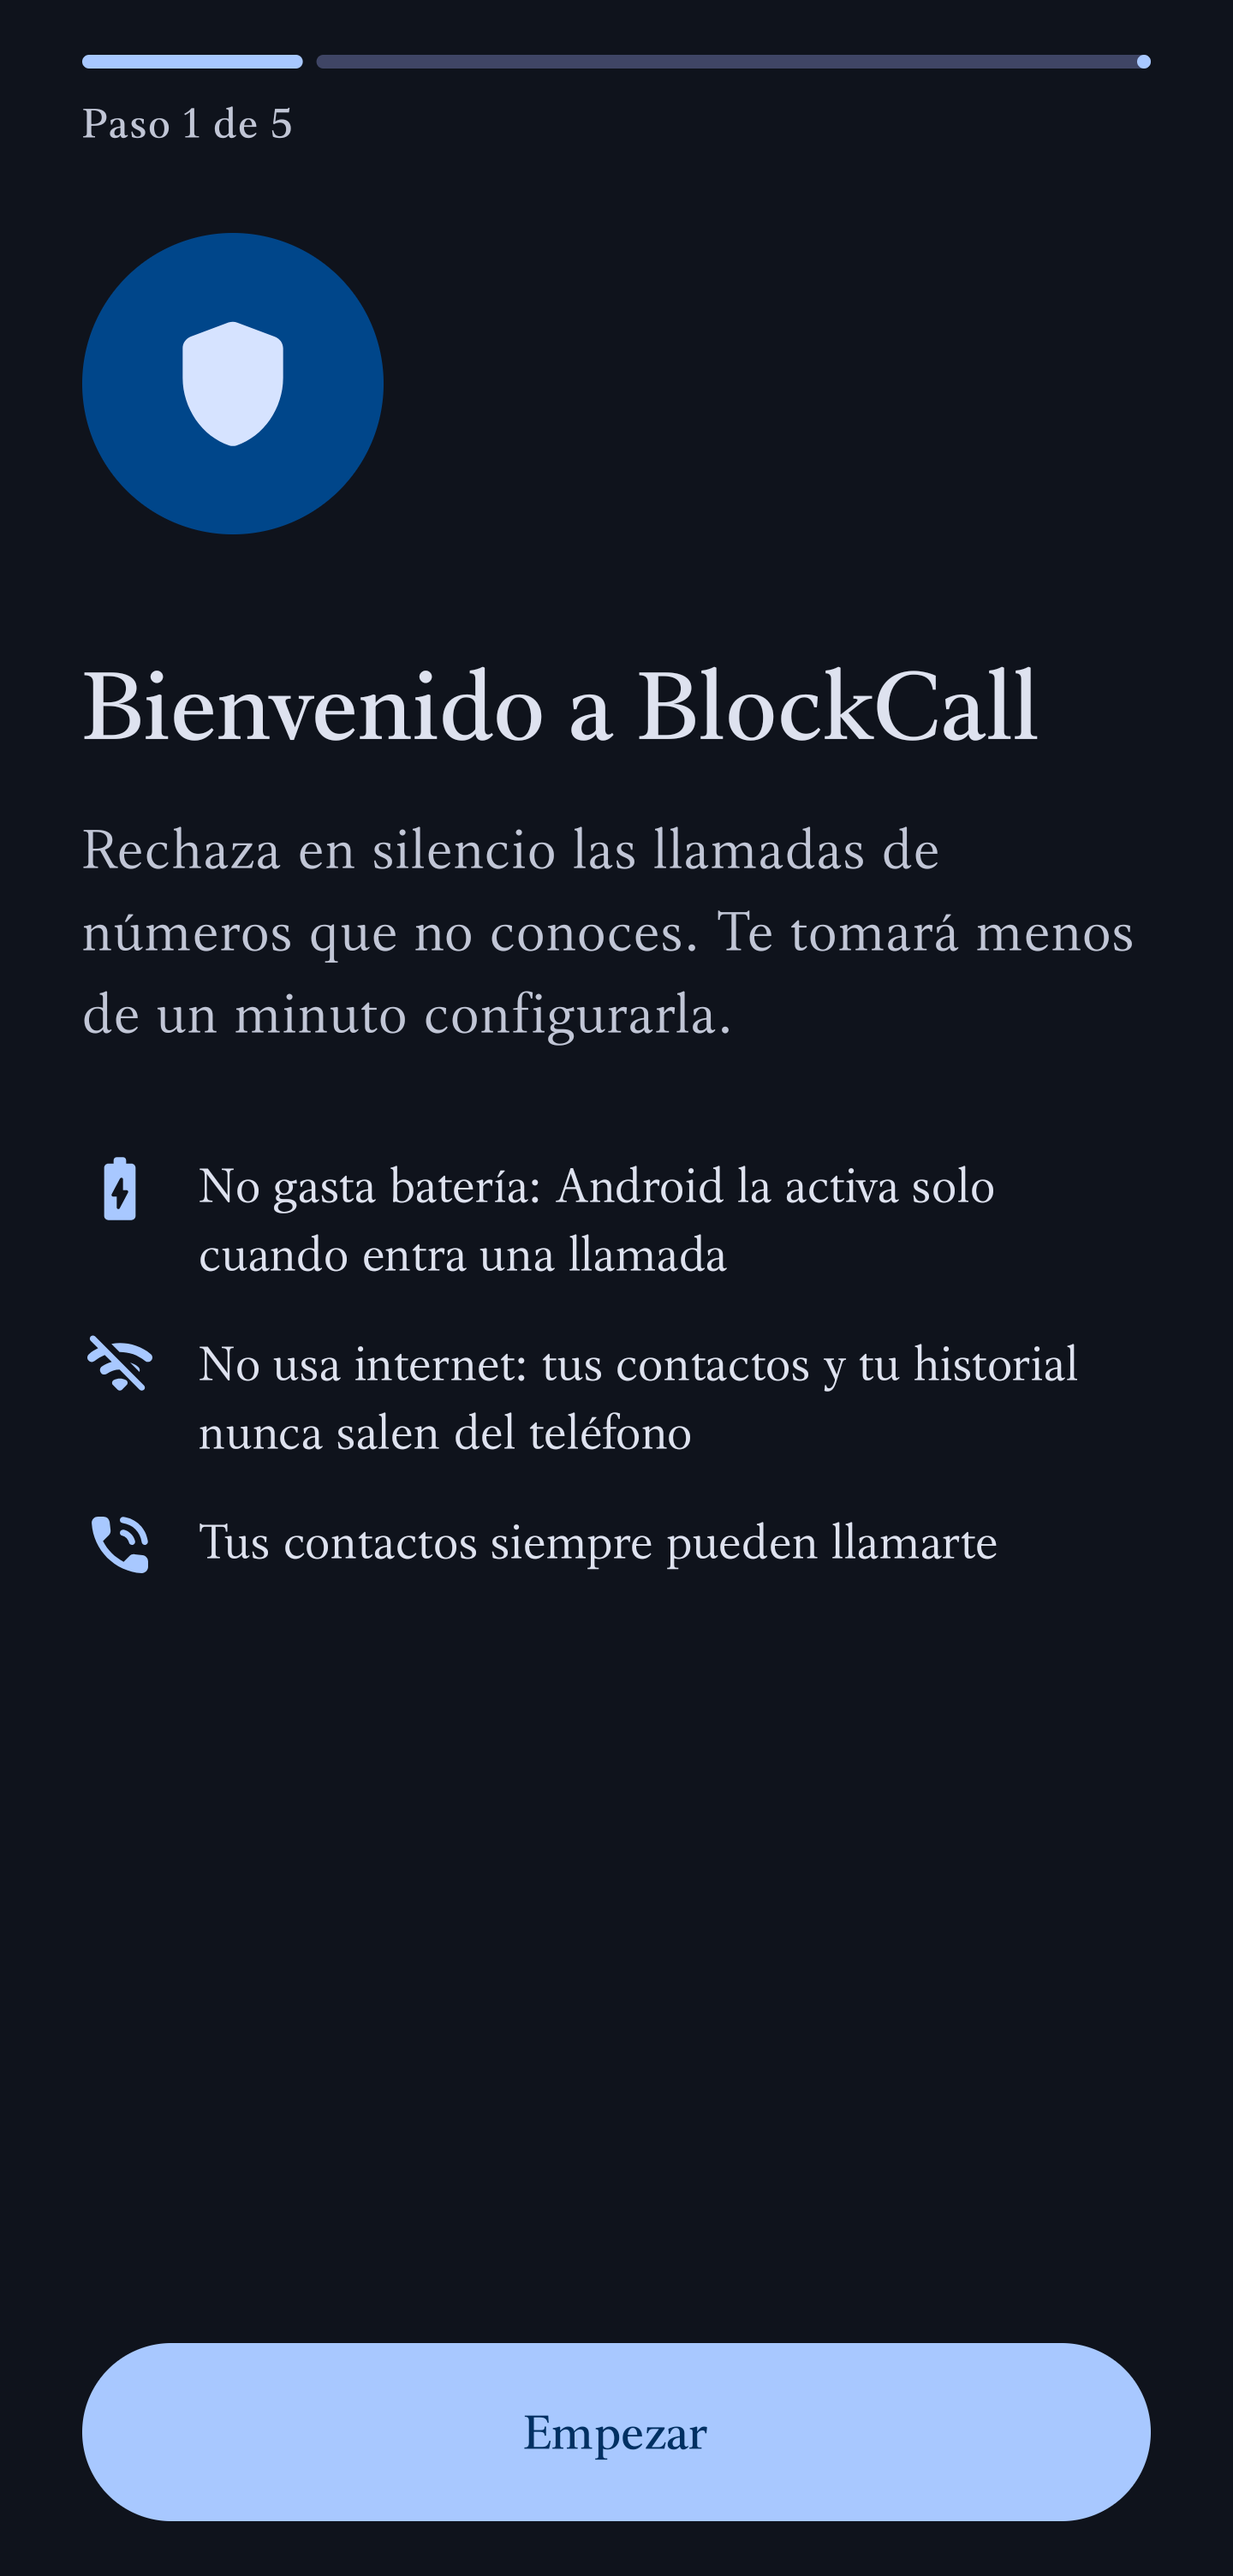
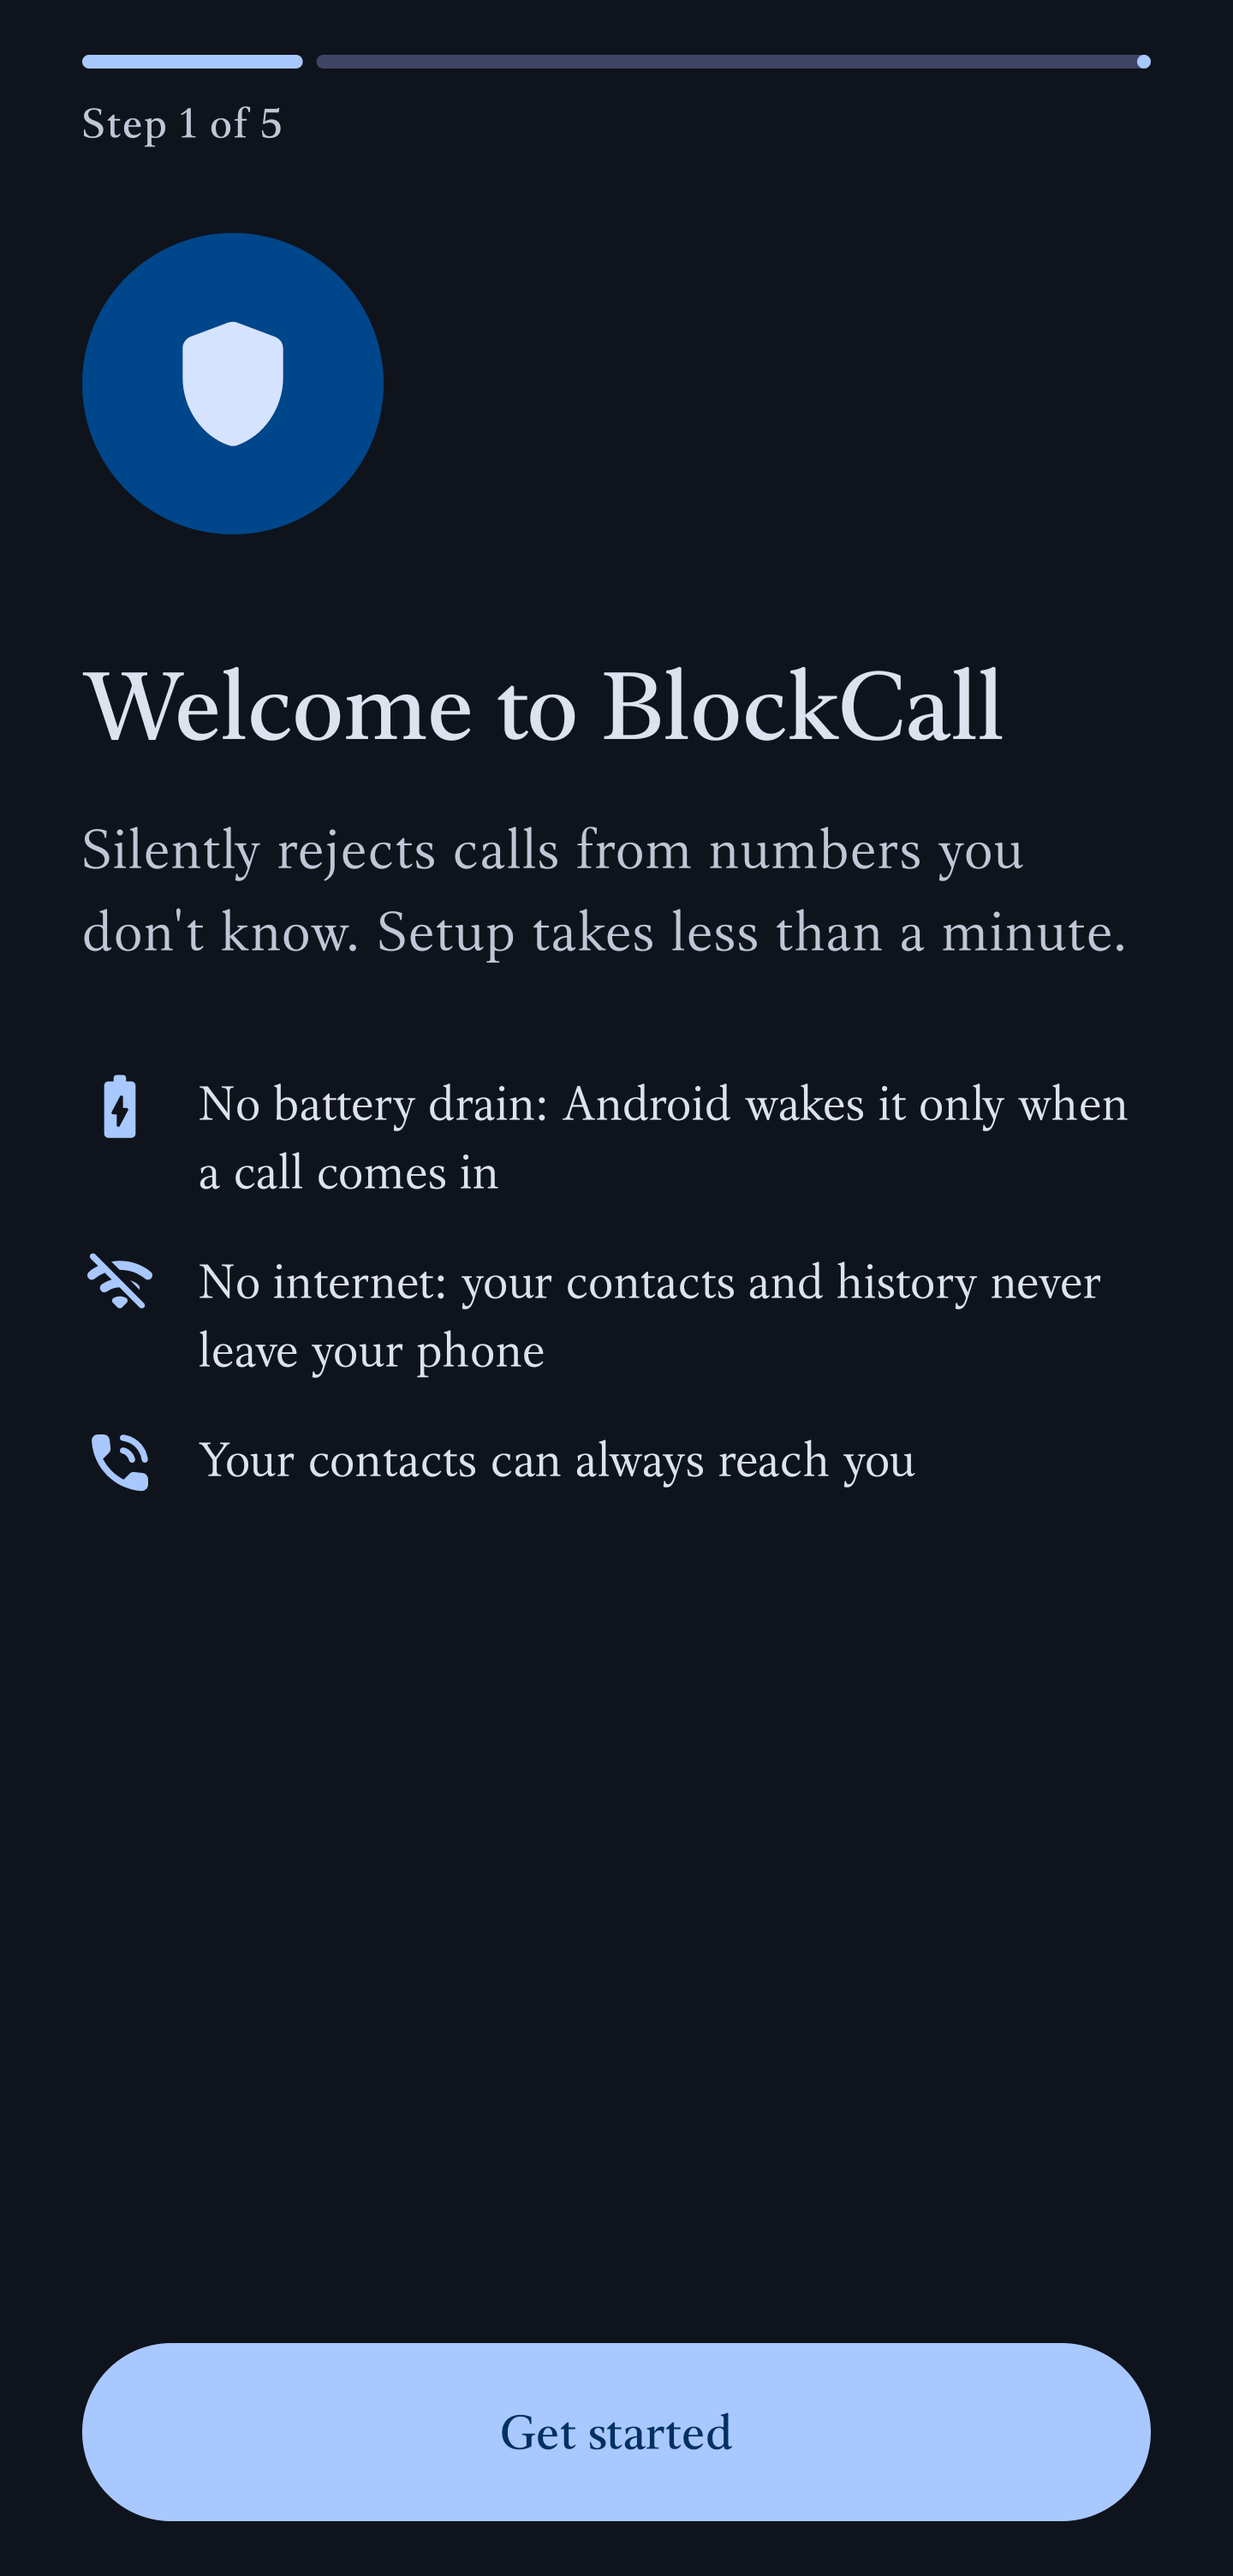
Capturas en inglés para la ficha y el README

diff --git a/README.md b/README.md
@@ -9,8 +9,8 @@ Android app (10+) that silently rejects incoming calls from numbers that aren't 
 <p>
   <img src="fastlane/metadata/android/en-US/images/phoneScreenshots/1.png" width="200" alt="Welcome">
   <img src="fastlane/metadata/android/en-US/images/phoneScreenshots/2.png" width="200" alt="Call screening permission">
-  <img src="fastlane/metadata/android/es-ES/images/phoneScreenshots/3.png" width="200" alt="Home">
-  <img src="fastlane/metadata/android/es-ES/images/phoneScreenshots/5.png" width="200" alt="Blocked calls">
+  <img src="fastlane/metadata/android/en-US/images/phoneScreenshots/3.png" width="200" alt="Home">
+  <img src="fastlane/metadata/android/en-US/images/phoneScreenshots/4.png" width="200" alt="Settings and rules">
 </p>
 
 ## Features
